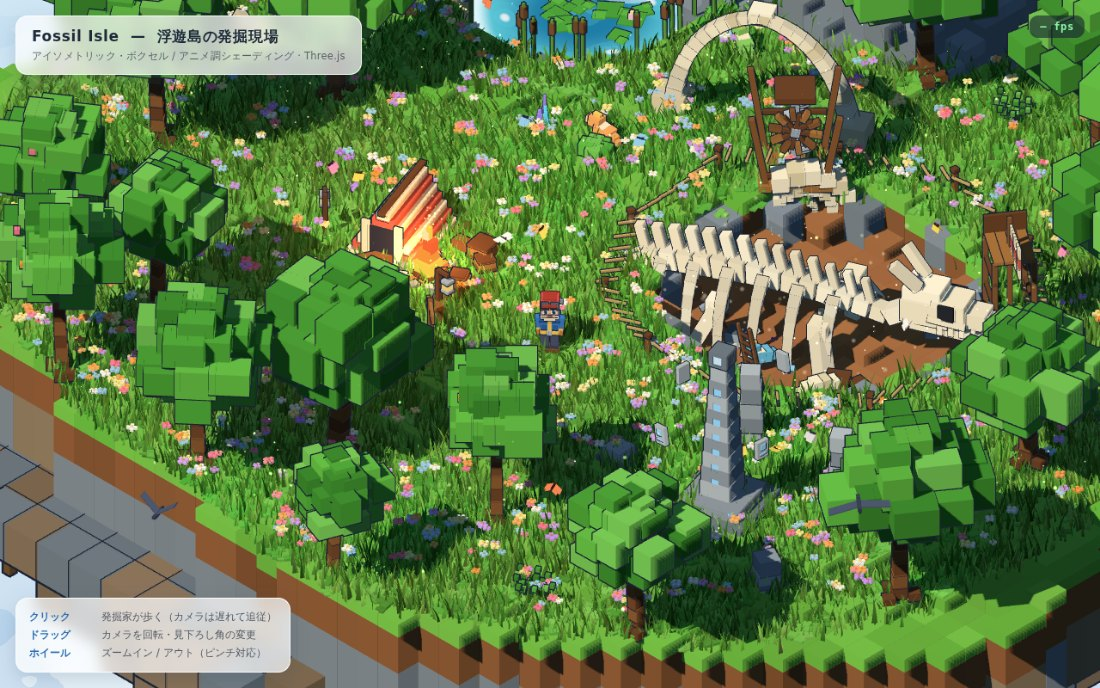
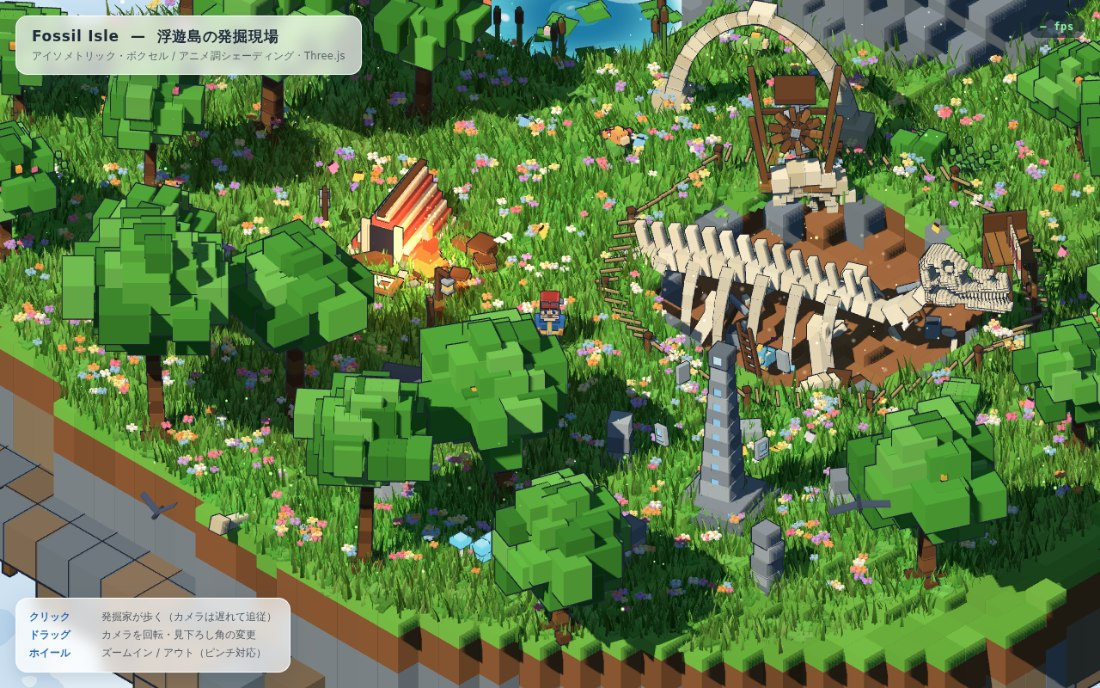
Replace the dragon-ish skull with a projected Tyrannosaurus profile
The old skull was assembled from generic blocks with horns and a crest,
which read as a dragon. A theropod skull is recognisable from its
openings, so this builds the skull by projecting a lateral profile into
voxels instead of sculpting it by hand.

- TREX holds a per-column dorsal and ventral margin plus a width table,
  sampled in square cells measured from the maxillary tooth row: a long
  low snout, the steep climb at the lacrimal, and a deep boxy back.
- Fenestrae are punched as ellipses: external naris, maxillary fenestra,
  antorbital fenestra (two lobes so it tapers forward), a keyhole orbit,
  and the lateral temporal fenestra, leaving a lacrimal bar and a
  postorbital bar between them.
- The cross-section swells at mid height so the skull is an arch rather
  than a slab, and cells bordering an opening are thinned and darkened so
  the rims read as recessed.
- Hinged lower jaw with its own profile and mandibular fenestra, rotated
  about the articulation; twelve recurved maxillary teeth per side with
  matching dentary teeth, largest a third of the way back.
- Horns and crest are gone; the only lumps are the rugose lacrimal and
  postorbital bosses, seated on the actual skull surface.

tools/skull-profile.html renders the skull alone in orthographic side and
top views, which is how the profile was tuned.

Claude-Session: https://claude.ai/code/session_0125P2mU8XHrXdhLTmH6Xdx1

diff --git a/src/world/props.js b/src/world/props.js
@@ -2,7 +2,7 @@
 // Static props are merged into a handful of batched draw calls; only things
 // that actually move keep their own transform.
 import * as THREE from '../../vendor/three/three.module.js';
-import { mulberry32, lerp } from '../lib/math.js';
+import { mulberry32, lerp, clamp } from '../lib/math.js';
 import { VoxelBuilder, toonMaterial, addOutline, outlineMaterial } from '../lib/voxel.js';
 import { applyWind, windOutlineMaterial } from '../lib/wind.js';
 import { CFG, groundAt, isLand, surfaceAt, slopeAt } from './terrain.js';
@@ -297,6 +297,156 @@ function signpost(b, x, z, yaw) {
   b.setTransform(null);
 }
 
+/**
+ * Tyrannosaurus skull, built by projecting its lateral profile into voxels.
+ *
+ * A theropod skull reads as one because of its openings, not because of horns:
+ * the dorsal/ventral margins are sampled per column, the fenestrae are punched
+ * through as ellipses, and the cross-section swells at mid height so the thing
+ * is an arch rather than a slab. Columns run snout (0) to occiput (25).
+ */
+const TREX = {
+  cell: 0.085,
+  cols: 26,
+  // Landmarks follow a lateral drawing of a large specimen, normalised so that
+  // snout tip -> occiput is 25 cells and everything else is measured in the
+  // same square cells above the maxillary tooth row.
+  // dorsal margin: long and low over the snout, then a steep climb at the
+  // lacrimal to a deep, boxy back - the T. rex signature
+  top: [5.5, 5.8, 6.1, 6.3, 6.5, 6.6, 6.8, 6.9, 7.1, 7.4, 7.8, 8.3, 9.0,
+        9.9, 11.0, 12.2, 13.1, 13.7, 14.0, 14.1, 14.1, 14.0, 13.7, 13.1, 12.1, 11.0],
+  // ventral margin: flat tooth row to 60%, then the jugal arch, then the
+  // quadrate dropping back down to the jaw joint
+  bot: [0, 0, 0, 0, 0, 0, 0, 0, 0, 0, 0, 0, 0, 0, 0, 0,
+        0.4, 1.6, 2.8, 3.4, 3.8, 3.9, 3.4, 2.0, 0.6, 1.2],
+  // full width in cells: narrow snout, very broad braincase
+  wide: [3.2, 3.4, 3.6, 3.7, 3.8, 3.9, 4.0, 4.2, 4.4, 4.7, 5.0, 5.4, 5.9,
+         6.5, 7.2, 8.0, 8.9, 9.8, 10.8, 11.8, 12.4, 12.5, 12.2, 11.4, 10.2, 9.0],
+  holes: [
+    { cx: 4.3, cy: 4.5, rx: 2.0, ry: 1.25 },     // external naris
+    { cx: 8.3, cy: 3.4, rx: 0.8, ry: 0.9 },      // maxillary fenestra
+    { cx: 12.0, cy: 5.0, rx: 2.2, ry: 2.6 },     // antorbital fenestra, rear lobe
+    { cx: 10.3, cy: 3.7, rx: 1.4, ry: 1.5 },     // ... tapering forward to a point
+    { cx: 16.7, cy: 10.2, rx: 1.8, ry: 1.7 },    // orbit, round upper lobe
+    { cx: 16.5, cy: 8.2, rx: 0.85, ry: 1.6 },    // orbit, keyhole slot below
+    { cx: 21.3, cy: 7.8, rx: 1.95, ry: 3.1 },    // lateral temporal fenestra
+  ],
+  jawTop: [0, 0, 0, 0, 0, 0, 0, 0, 0, 0, 0, 0, 0, 0, 0, 0, 0,
+           0.4, 1.0, 1.6, 1.9, 1.8, 1.4, 1.0, 0.7, 0.5],
+  jawBot: [-1.6, -2.4, -2.9, -3.1, -3.2, -3.2, -3.15, -3.1, -3.0, -2.9,
+           -2.8, -2.7, -2.6, -2.5, -2.45, -2.4, -2.35, -2.3, -2.2, -2.1,
+           -2.0, -1.9, -1.7, -1.4, -1.0, -1.6],
+  jawHoles: [{ cx: 15.6, cy: -1.3, rx: 1.9, ry: 0.7 }],
+};
+
+const inHole = (holes, c, r) => {
+  for (const h of holes) {
+    const u = (c - h.cx) / h.rx, v = (r - h.cy) / h.ry;
+    if (u * u + v * v < 1) return true;
+  }
+  return false;
+};
+
+/** Half-width multiplier across the skull's height: an arch, not a slab. */
+const archProfile = (v) => 0.58 + 0.42 * Math.sin(Math.PI * Math.pow(clamp(v, 0, 1), 0.85));
+
+export function trexSkull(b, base, ox, oy, oz, tilt, rnd, jawDrop = 0.2) {
+  const T = TREX;
+  const cell = T.cell;
+  const bone = () => (rnd() < 0.22 ? COL.boneWarm : COL.bone);
+  const skullM = new THREE.Matrix4()
+    .compose(new THREE.Vector3(ox, oy, oz),
+      new THREE.Quaternion().setFromEuler(new THREE.Euler(0, 0, tilt)),
+      new THREE.Vector3(1, 1, 1))
+    .premultiply(base);
+
+  const xOf = (c) => (T.cols - 1 - c) * cell;
+  const put = (m, x, y, z, w, h, d, tint) => {
+    b.setTransform(m);
+    b.box(x, y, z, w, h, d, bone(), { tint: tint * (0.96 + rnd() * 0.08) });
+  };
+
+  // --- cranium ------------------------------------------------------------
+  const solid = (c, r) => {
+    if (c < 0 || c >= T.cols) return false;
+    const mid = r + 0.5;
+    return mid >= T.bot[c] && mid <= T.top[c] && !inHole(T.holes, c + 0.5, mid);
+  };
+  for (let c = 0; c < T.cols; c++) {
+    const span = T.top[c] - T.bot[c];
+    for (let r = 0; r < Math.ceil(T.top[c]); r++) {
+      if (!solid(c, r)) continue;
+      const mid = r + 0.5;
+      const v = (mid - T.bot[c]) / Math.max(span, 0.001);
+      // thin the bone down around every opening so the rims read as recessed
+      const rim = !solid(c - 1, r) || !solid(c + 1, r) || !solid(c, r - 1) || !solid(c, r + 1);
+      const w = T.wide[c] * cell * archProfile(v) * (rim ? 0.78 : 1);
+      put(skullM, xOf(c), mid * cell, 0, cell * 1.02, cell * 1.02, w, rim ? 0.9 : 1);
+    }
+  }
+  // lateral offset that actually lands on the skull surface at a given height
+  const surfaceZ = (c, row) => {
+    const ci = Math.round(c);
+    const v = (row - T.bot[ci]) / Math.max(T.top[ci] - T.bot[ci], 0.001);
+    return T.wide[ci] * cell * archProfile(v) * 0.44;
+  };
+
+  // occipital condyle + the rugose bosses over each orbit (a T. rex has
+  // roughened lumps on the lacrimal and postorbital, never horns)
+  put(skullM, xOf(25) - cell * 0.7, cell * 2.6, 0, cell * 1.4, cell * 1.7, cell * 1.7, 0.94);
+  for (const s of [-1, 1]) {
+    put(skullM, xOf(15.6), cell * 9.6, s * surfaceZ(16, 9.6),
+      cell * 2.2, cell * 1.5, cell * 1.3, 0.96);        // rugose lacrimal boss
+    put(skullM, xOf(18.4), cell * 11.2, s * surfaceZ(18, 11.2),
+      cell * 1.8, cell * 1.3, cell * 1.2, 0.96);        // postorbital boss
+  }
+
+  // --- lower jaw, hinged open at the articulation --------------------------
+  const px = xOf(24.5), py = cell * 0.4;
+  const jawM = new THREE.Matrix4().makeTranslation(px, py - cell * 0.35, 0)
+    .multiply(new THREE.Matrix4().makeRotationZ(-jawDrop))
+    .multiply(new THREE.Matrix4().makeTranslation(-px, -py, 0))
+    .premultiply(skullM);
+  const jawSolid = (c, r) => {
+    if (c < 0 || c >= T.cols) return false;
+    const mid = r + 0.5;
+    return mid <= T.jawTop[c] && mid >= T.jawBot[c] && !inHole(T.jawHoles, c + 0.5, mid);
+  };
+  for (let c = 0; c < T.cols; c++) {
+    for (let r = Math.floor(T.jawBot[c]); r <= Math.ceil(T.jawTop[c]); r++) {
+      if (!jawSolid(c, r)) continue;
+      const rim = !jawSolid(c - 1, r) || !jawSolid(c + 1, r)
+        || !jawSolid(c, r - 1) || !jawSolid(c, r + 1);
+      const w = T.wide[c] * cell * 0.78 * (rim ? 0.84 : 1);
+      put(jawM, xOf(c), (r + 0.5) * cell, 0, cell * 1.02, cell * 1.02, w, rim ? 0.92 : 1);
+    }
+  }
+
+  // --- teeth: big recurved bananas in the maxilla, smaller in the dentary --
+  const toothLen = (c) => 1.1 + 2.0 * Math.exp(-Math.pow((c - 5.5) / 5.5, 2));
+  for (let c = 0.7; c < 15.6; c += 1.15) {
+    const ci = Math.round(c);
+    const L = toothLen(c) * cell;
+    const z = T.wide[ci] * cell * archProfile(0) * 0.44;
+    const x = xOf(c);
+    for (const s of [-1, 1]) {
+      // upper: down and raked back, tapering to a point
+      rod(b, skullM, [x, 0, s * z], [x - L * 0.16, -L * 0.62, s * z * 0.98],
+        cell * 0.62, bone(), { tint: 1.04 }, 0);
+      rod(b, skullM, [x - L * 0.16, -L * 0.62, s * z * 0.98],
+        [x - L * 0.3, -L, s * z * 0.95], cell * 0.34, bone(), { tint: 1.06 }, 0);
+      // lower
+      const L2 = L * 0.82;
+      rod(b, jawM, [x, 0, s * z * 0.9], [x - L2 * 0.12, L2 * 0.6, s * z * 0.88],
+        cell * 0.54, bone(), { tint: 1.04 }, 0);
+      rod(b, jawM, [x - L2 * 0.12, L2 * 0.6, s * z * 0.88],
+        [x - L2 * 0.24, L2, s * z * 0.86], cell * 0.3, bone(), { tint: 1.06 }, 0);
+    }
+  }
+  b.setTransform(null);
+  return { length: (T.cols - 1) * cell, height: 14.1 * cell };
+}
+
 /** The star of the dig: a huge half-buried fossil beast. */
 function fossilBeast(b, rnd, cx, cz, yaw) {
   const base = frame(cx, CFG.pit.floor + 0.95, cz, yaw, 1.4);
@@ -354,34 +504,18 @@ function fossilBeast(b, rnd, cx, cz, yaw) {
     }
   }
 
-  // --- skull, reared up at the head of the spine ---------------------------
+  // --- neck and skull ------------------------------------------------------
   const [hx, hy, hz] = pts[N - 1];
-  const sx = hx + 1.2, sy = hy + 0.5, sz = hz;
-  seg([hx, hy, hz], [sx - 0.55, sy - 0.1, sz], 0.44, 0.98);       // neck
-  blk(sx - 0.1, sy + 0.06, sz, 1.25, 0.62, 1.0);                  // braincase
-  blk(sx - 0.2, sy + 0.52, sz, 1.0, 0.36, 0.82);                  // skull roof
-  blk(sx + 0.52, sy + 0.2, sz, 0.85, 0.52, 0.86);                 // brow ridge
-  blk(sx + 1.08, sy + 0.02, sz, 0.78, 0.44, 0.64);                // snout
-  blk(sx + 1.6, sy - 0.06, sz, 0.48, 0.34, 0.48);
-  blk(sx + 1.94, sy - 0.1, sz, 0.28, 0.24, 0.34);                 // nostril tip
-  for (const s of [-1, 1]) {
-    blk(sx + 0.5, sy + 0.24, sz + s * 0.44, 0.4, 0.4, 0.16, 0x24272f);   // eye socket
-    seg([sx + 0.05, sy + 0.02, sz + s * 0.5],
-        [sx + 0.95, sy - 0.12, sz + s * 0.36], 0.17, 0.98);              // cheek arch
-    seg([sx - 0.62, sy - 0.3, sz + s * 0.42],
-        [sx + 1.45, sy - 0.44, sz + s * 0.26], 0.22, 0.97);              // lower jaw
-    seg([sx + 1.45, sy - 0.44, sz + s * 0.26],
-        [sx + 1.85, sy - 0.34, sz], 0.18, 0.97);                         // jaw tip
-    seg([sx - 0.3, sy + 0.72, sz + s * 0.3],
-        [sx - 0.9, sy + 1.35, sz + s * 0.46], 0.24, 0.97);               // horns
+  const neck = [
+    [hx, hy, hz],
+    [hx + 0.42, hy + 0.28, hz - 0.05],
+    [hx + 0.78, hy + 0.62, hz - 0.08],
+    [hx + 1.02, hy + 0.92, hz - 0.1],
+  ];
+  for (let i = 0; i < neck.length - 1; i++) {
+    seg(neck[i], neck[i + 1], lerp(0.5, 0.36, i / 2), 0.98, -0.04);
   }
-  for (let i = 0; i < 6; i++) {                                   // teeth
-    const tx = sx + 0.35 + i * 0.28;
-    const tz = 0.46 - i * 0.035;
-    for (const s of [-1, 1]) {
-      seg([tx, sy - 0.16, sz + s * tz], [tx, sy - 0.42, sz + s * tz], 0.13 - i * 0.008, 1, 0);
-    }
-  }
+  trexSkull(b, base, neck[3][0] + 0.06, neck[3][1] + 0.02, neck[3][2], 0.22, rnd, 0.16);
 
   // --- limbs, half sunk in the clay ---------------------------------------
   for (const s of [-1, 1]) {

diff --git a/tools/skull-profile.html b/tools/skull-profile.html
@@ -1,0 +1,34 @@
+<!DOCTYPE html><html lang="ja"><head><meta charset="utf-8"><title>T. rex skull profile</title></head><body style="margin:0;background:#cfe3f2"><canvas id="c"></canvas>
+<script type="module">
+import * as THREE from '../vendor/three/three.module.js';
+import { VoxelBuilder, toonMaterial, outlineMaterial } from '../src/lib/voxel.js';
+import { trexSkull } from '../src/world/props.js';
+import { mulberry32 } from '../src/lib/math.js';
+
+const W = 960, H = 520;
+const r = new THREE.WebGLRenderer({ canvas: document.getElementById('c'), antialias: true });
+r.setSize(W, H); r.setClearColor(0xcfe3f2);
+const scene = new THREE.Scene();
+const b = new VoxelBuilder();
+const rnd = mulberry32(7);
+const info = trexSkull(b, new THREE.Matrix4(), 0, 0, 0, 0, rnd, Number(location.hash.slice(1) || 0.16));
+const geo = b.build();
+const m = new THREE.Mesh(geo, toonMaterial({ vertexColors: true }));
+m.add(new THREE.Mesh(geo, outlineMaterial(0.012)));
+scene.add(m);
+
+geo.computeBoundingBox();
+const bb = geo.boundingBox;
+const cx = (bb.min.x + bb.max.x) / 2, cy = (bb.min.y + bb.max.y) / 2;
+const sx = (bb.max.x - bb.min.x) * 0.56, sy = (bb.max.y - bb.min.y) * 0.56;
+const half = Math.max(sx, sy * W / H);
+const cam = new THREE.OrthographicCamera(-half, half, half * H / W, -half * H / W, -100, 100);
+const side = location.search.includes('top');
+if (side) { cam.position.set(cx, 10, 0); cam.up.set(-1, 0, 0); cam.lookAt(cx, 0, 0); }
+else { cam.position.set(cx, cy, 10); cam.lookAt(cx, cy, 0); }
+scene.add(new THREE.DirectionalLight(0xffffff, 2.4).translateX(-3).translateY(6).translateZ(8));
+const d2 = new THREE.DirectionalLight(0x9fc4ff, 1.0); d2.position.set(4, -2, -6); scene.add(d2);
+scene.add(new THREE.HemisphereLight(0xbfe0ff, 0x6a6050, 1.0));
+r.render(scene, cam);
+window.__done = true;
+</script></body></html>

diff --git a/README.md b/README.md
@@ -8,6 +8,8 @@ Three.js のみ（ローカル同梱）で動作し、**実行時のアセット
 
 <p align="center"><img src="docs/screenshot-wide.jpg" width="620" alt="島の全景"></p>
 
+<p align="center"><img src="docs/skull-profile.jpg" width="620" alt="ティラノサウルス頭骨の側面プロファイル"></p>
+
 ## 動かす
 
 ES Modules を使うため、ファイル直開き（`file://`）ではなく HTTP で配信します。
@@ -40,6 +42,12 @@ python3 -m http.server 8080
 輪郭線は反転ハル（`BackSide`）方式ですが、法線ではなくボクセル生成時に書き出した
 `aExpand`（ボックス中心からの符号ベクトル）で押し出すため、箱の角に隙間が出ません。
 
+**化石** — 骨は接線方向に回した箱を細らせながら繋いだテーパーロッド。頭骨だけは別で、
+ティラノサウルスの**側面輪郭をボクセルに投影**して作っています：列ごとの背側・腹側マージン、
+楕円で開けた外鼻孔・上顎窓・前眼窩窓・眼窩（鍵穴形）・側頭窓、そして中央で膨らむ断面。
+角も鶏冠もなく、開口部の配置だけで獣脚類に見えるようにしてあります。
+プロファイルの調整用に `tools/skull-profile.html` を同梱（真横と真上からの正射影ビュー）。
+
 **ボクセル生成** — `VoxelBuilder` が箱の集合を 1 つの `BufferGeometry` にマージ。
 面ごとに焼き込んだ陰影、任意の回転行列、植生用の `aPivot`/`aSway` 属性に対応。
 静物・草木・発光物はそれぞれ 1 メッシュにバッチされ、シーン全体で
@@ -65,6 +73,7 @@ python3 -m http.server 8080
 
 ```
 index.html
+tools/skull-profile.html   頭骨プロファイル確認用ビュー
 vendor/three/        Three.js r186（同梱、CDN 不要）
 src/main.js          レンダラ・ライト・ループ・品質制御
 src/camera.js        アイソメトリック操作（回転 / ズーム / 遅延追従）
